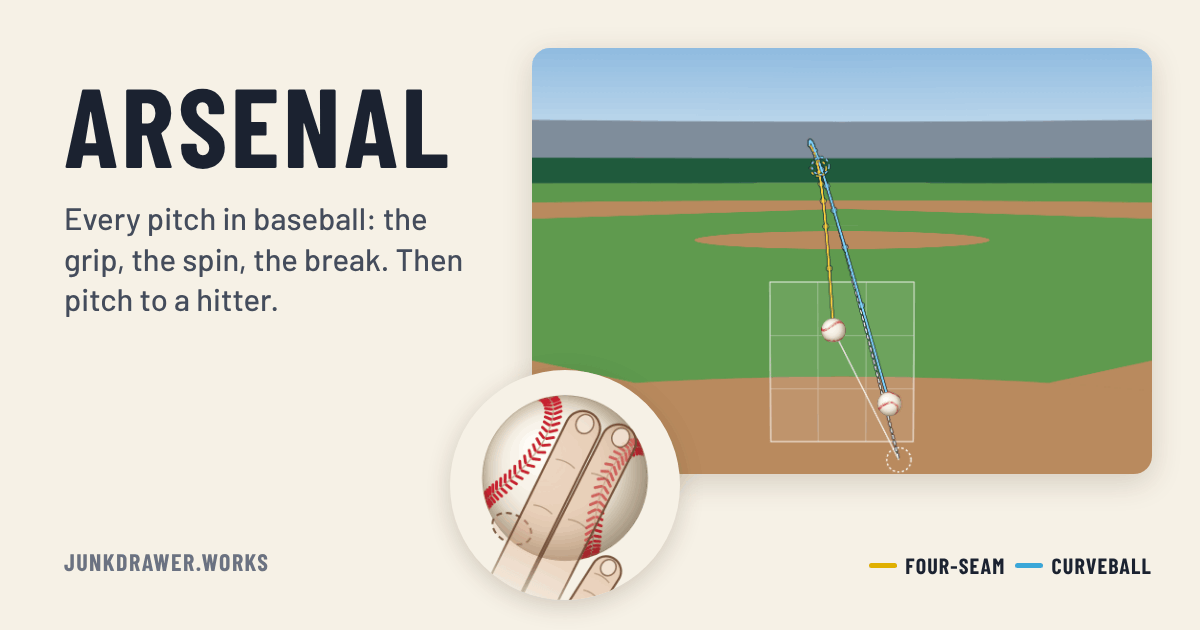
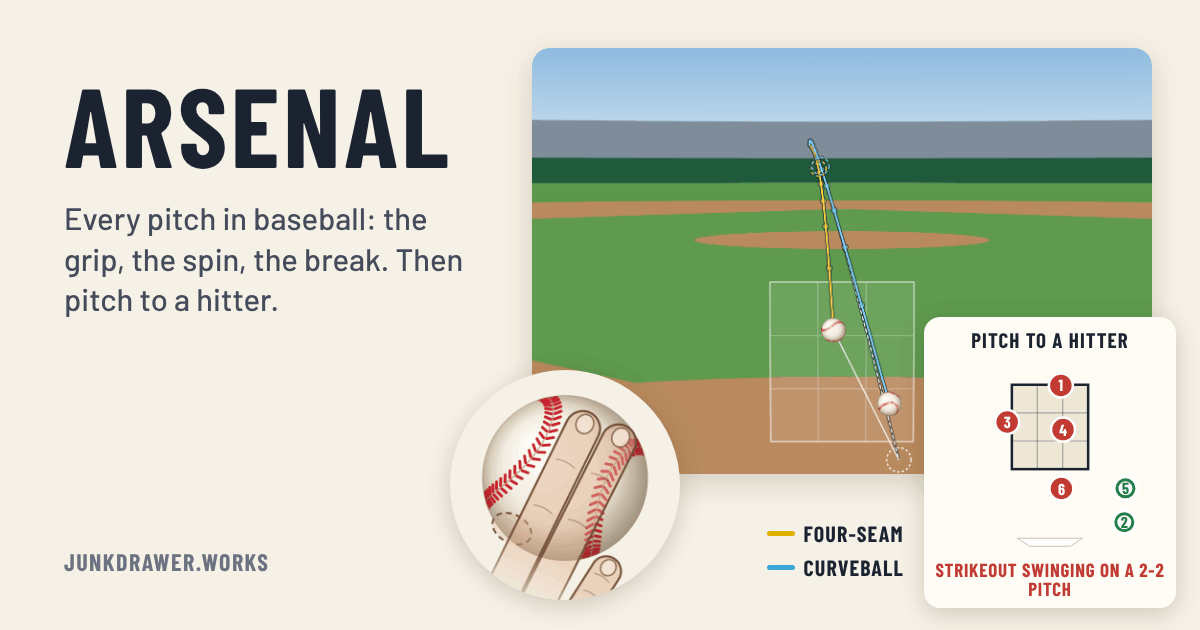
Show the README's strikeout on a strike zone in the link preview
The link preview showed only the explorer, though Pitch to a hitter is now
half the page. Beside the throw it now has a small card headed "Pitch to a
hitter": the strike zone in thirds from the catcher's view, home plate
under it, and the README's six-pitch strikeout marked where each pitch
crossed, numbered, a red disc for a strike and a green ring for a ball, as
the at-bat's picture marks them, over "Strikeout swinging on a 2-2 pitch".
The screenshot tool replays the at-bat from its link with the model, so it
stays the README's at-bat. The pitch names under the throw now stack, clear
of the grip. This answers Mark's "Show the at-bat in the link preview
image".

Claude-Session: https://claude.ai/code/session_019UHeVbxYLoFfW22STjmE8C

Changed region(s): [[0.7708, 0.4825, 0.9867, 0.8444], [0.6475, 0.8143, 0.9558, 0.9952]]

diff --git a/README.md b/README.md
@@ -59,7 +59,7 @@ It's a static site: plain HTML, CSS and JavaScript modules, with no build step.
 npm start                     # serves it at http://localhost:8080 (any static file server will do)
 npm install                   # esbuild and upng-js, for the one-file copy in npm test and the tools below
 npm test                      # the flight and at-bat models against the numbers, then the real page and the one-file copy in Chromium (needs Playwright)
-node tools/screenshots.mjs    # redraws docs/*.png and og.png
+node tools/screenshots.mjs    # redraws docs/*.png and og.png, the link preview: a throw, its grip and the README's strikeout on a strike zone
 node tools/make-icons.mjs     # redraws the PNG icons from icon.svg
 node tools/statcast.mjs       # refreshes js/numbers.js from Baseball Savant
 node tools/league.mjs         # refreshes js/league.js, the at-bat's targets and the real pitchers' arsenals (about ten minutes; --cache=DIR keeps the downloads)
